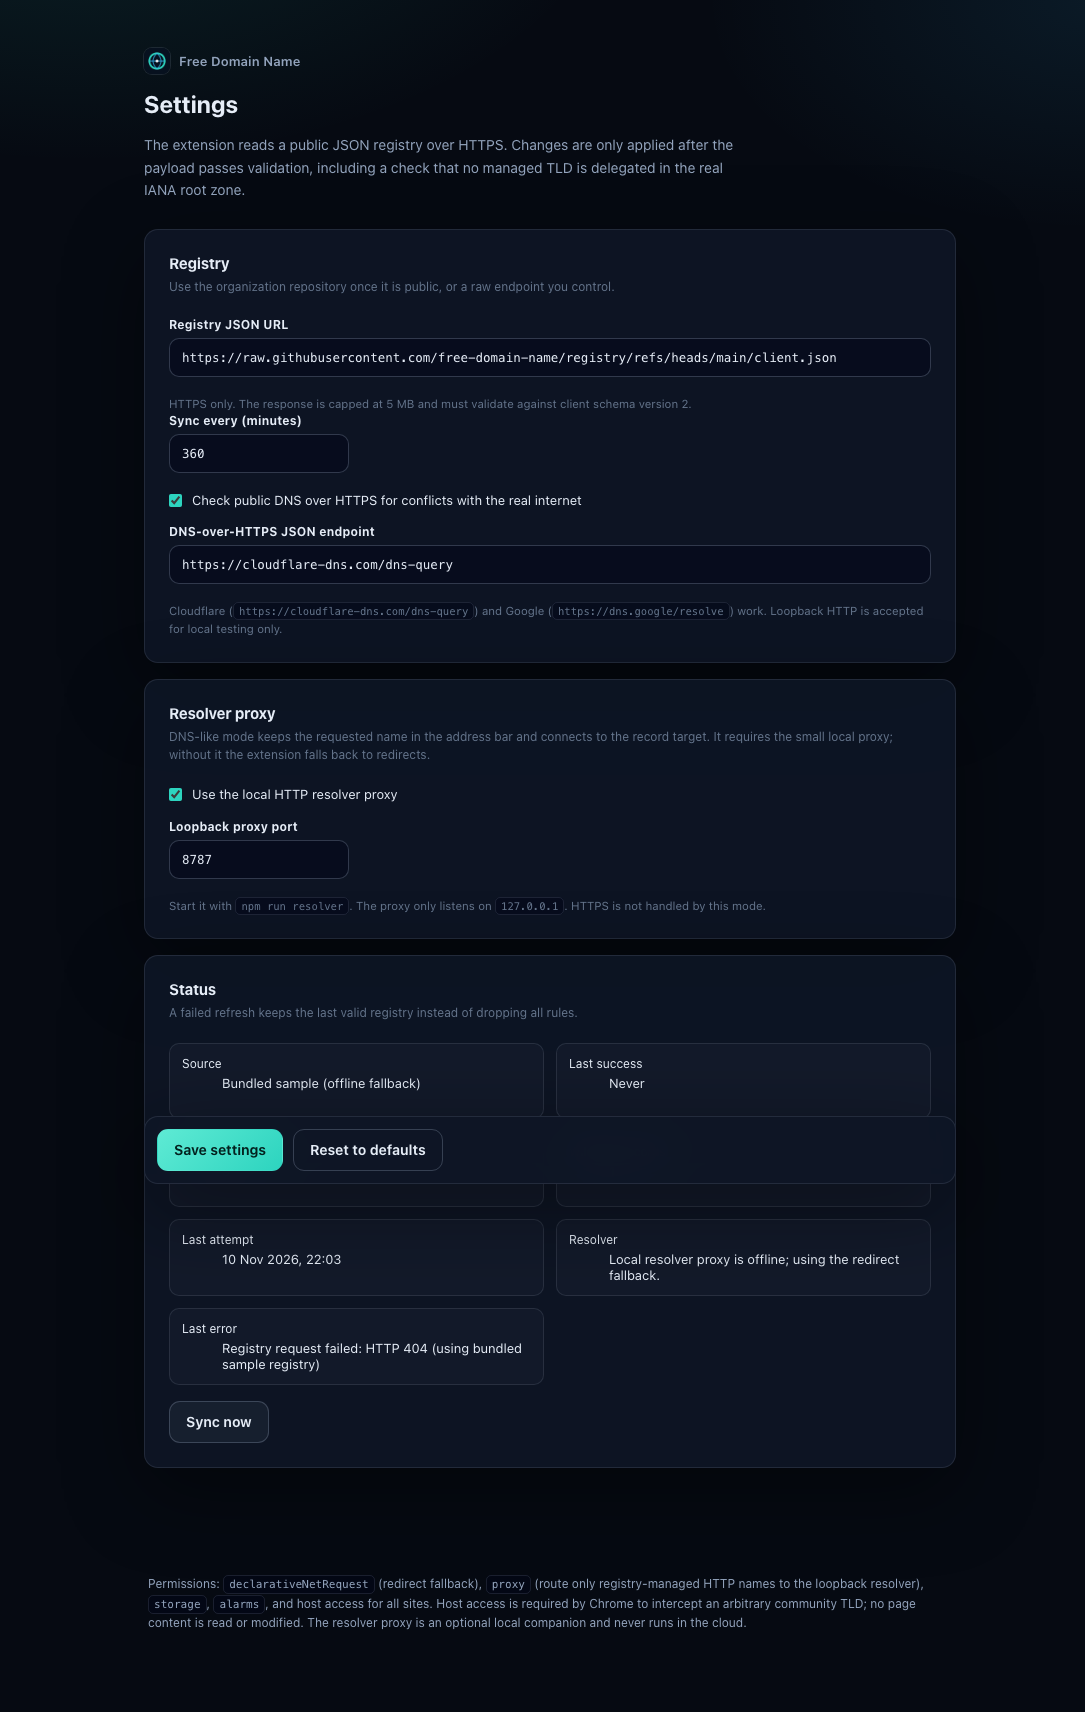
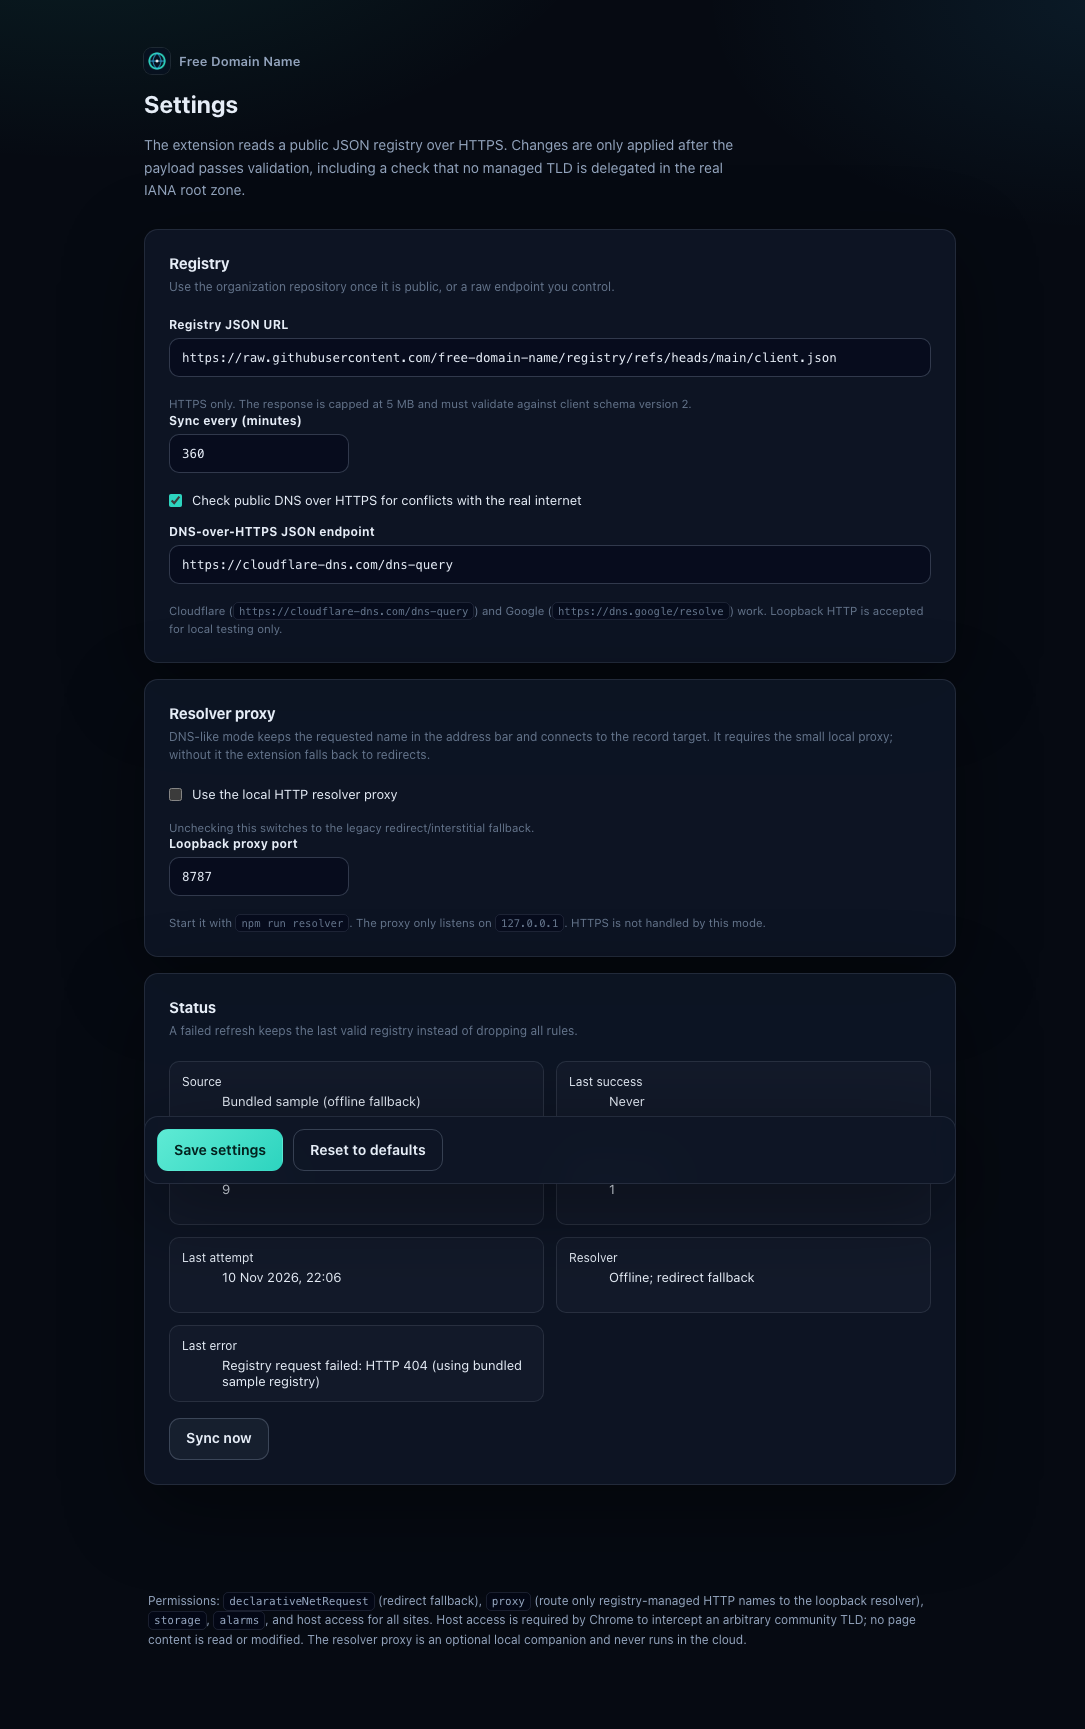
fix: make redirect mode opt-in
Defaults to the resolver; if the proxy is offline the extension clears rules and reports Resolver offline instead of silently redirecting. Sync now only caches; background selects the interception path.

diff --git a/src/popup.ts b/src/popup.ts
@@ -53,11 +53,17 @@ function render(response: StatusOk): void {
     el("status-detail").textContent = `${sourceLabel(registry)} · ${registry.recordCount} ${
       registry.recordCount === 1 ? "name" : "names"
     } · DNS-like proxy on 127.0.0.1:${response.resolver.port}`;
-  } else {
-    el("headline").textContent = registry.source === "sample" ? "Sample registry active" : "Interception active";
+  } else if (!settings.resolverEnabled) {
+    el("headline").textContent =
+      registry.source === "sample" ? "Sample registry active" : "Interception active";
     el("status-detail").textContent = `${sourceLabel(registry)} · ${registry.recordCount} ${
       registry.recordCount === 1 ? "name" : "names"
     } · redirect fallback`;
+  } else {
+    el("headline").textContent = "Resolver offline";
+    el("status-detail").textContent = `${sourceLabel(registry)} · ${registry.recordCount} ${
+      registry.recordCount === 1 ? "name" : "names"
+    } · no interception`;
   }
 
   el("record-count").textContent = registry ? String(registry.recordCount) : "0";

diff --git a/src/lib/registry.ts b/src/lib/registry.ts
@@ -1,7 +1,6 @@
 import sampleRegistryJson from "../../registry/client.json";
 import { api } from "./api";
 import { MAX_REGISTRY_BYTES } from "./constants";
-import { applyInterceptionRules } from "./rules";
 import { getSettings } from "./settings";
 import type {
   Registry,
@@ -149,7 +148,6 @@ async function performSync(): Promise<SyncStatus> {
   const attemptedAt = Date.now();
 
   if (!settings.enabled) {
-    await applyInterceptionRules([], false);
     const status: SyncStatus = {
       lastAttemptAt: attemptedAt,
       lastSuccessAt: previous.lastSuccessAt,
@@ -188,12 +186,6 @@ async function performSync(): Promise<SyncStatus> {
 
   const source: RegistrySource | null = next?.source ?? null;
   const success = next !== null && (source === "remote" || source === "sample");
-
-  try {
-    await applyInterceptionRules(next?.registry.records ?? [], settings.enabled);
-  } catch (ruleError) {
-    error = `${error ?? "Rule update failed"}: ${errorMessage(ruleError)}`;
-  }
 
   const status: SyncStatus = {
     lastAttemptAt: attemptedAt,

diff --git a/src/background.ts b/src/background.ts
@@ -62,8 +62,18 @@ async function applyInterception(settings: Settings): Promise<void> {
   }
   const cache = await readRegistryCache();
   const active = await configureResolver(settings, cache?.registry.records ?? []);
-  // The resolver proxy and the redirect rules are mutually exclusive.
-  await applyInterceptionRules(active ? [] : (cache?.registry.records ?? []), !active);
+  // The resolver proxy and the redirect rules are mutually exclusive. When the
+  // resolver is enabled but offline, do not silently become a redirector: clear
+  // the rules and let the popup report that the local proxy is unavailable.
+  if (active) {
+    await applyInterceptionRules([], false);
+    return;
+  }
+  if (!settings.resolverEnabled) {
+    await applyInterceptionRules(cache?.registry.records ?? [], true);
+    return;
+  }
+  await applyInterceptionRules([], false);
 }
 
 async function bootstrap(): Promise<void> {

diff --git a/public/options.html b/public/options.html
@@ -69,6 +69,9 @@
             <input id="resolver-enabled" type="checkbox" />
             <span>Use the local HTTP resolver proxy</span>
           </label>
+          <p class="hint">
+            Unchecking this switches to the legacy redirect/interstitial fallback.
+          </p>
 
           <label class="field">
             <span>Loopback proxy port</span>

diff --git a/README.md b/README.md
@@ -57,7 +57,9 @@ Load the **same `dist/` directory** in either browser:
 
 The extension checks `http://127.0.0.1:8787/__health` during sync and settings
 changes. When the proxy answers, it installs the PAC/`proxy.onRequest` route and
-clears the redirect rules. When it does not, it keeps the fallback.
+clears the redirect rules. When it does not, it reports `Resolver offline` and
+leaves registered names un-intercepted. Redirects are only used if you explicitly
+uncheck **Use the local HTTP resolver proxy**.
 
 Use **Settings → Sync now** after starting or stopping the proxy.
 
@@ -146,9 +148,9 @@ Copy [registry/](registry/) to the root of `free-domain-name/registry`, commit, 
 push. Registry CI runs the shard validator, client freshness check, and JSON Schema
 validation.
 
-## Fallback mode
+## Fallback mode (opt-in)
 
-If the local proxy is offline (or disabled in Settings), the extension uses the
+If you uncheck **Use the local HTTP resolver proxy**, the extension uses the
 original `declarativeNetRequest` path:
 
 - one redirect rule per record;
@@ -156,14 +158,15 @@ original `declarativeNetRequest` path:
 - a real-domain conflict offers registry vs public DNS;
 - the URL changes to the target.
 
-The popup reports `Redirect fallback`. This mode is intentionally retained so the
-extension still functions before the companion proxy is installed. It is not the
-DNS-like behavior; the local proxy is.
+The popup reports `Redirect fallback`. This mode is intentionally retained for
+compatibility, but it is not the default and it is not the DNS-like behavior.
 
 ## Boundaries
 
 - **A browser extension cannot do this alone.** It cannot listen on a socket or
   answer DNS. The resolver requires the loopback proxy in [resolver/](resolver/).
+  With resolver mode enabled and no proxy, registered names are left untouched and
+  the popup says `Resolver offline`; it does not silently redirect.
 - **HTTP only.** HTTPS requests do not enter the resolver. There is no custom-TLD
   TLS.
 - **The proxy is local.** It binds to `127.0.0.1` and sees the HTTP requests it

diff --git a/docs/architecture.md b/docs/architecture.md
@@ -53,8 +53,11 @@ at the target are rewritten to the original name.
 
 ## Request flow: fallback mode
 
-If `http://127.0.0.1:<port>/__health` does not answer, the extension clears its PAC
-(or leaves the Firefox listener direct) and installs DNR redirect rules:
+Redirect fallback is opt-in: uncheck the resolver proxy setting. If the resolver is
+enabled and `http://127.0.0.1:<port>/__health` does not answer, the extension clears
+its PAC (or leaves the Firefox listener direct), clears DNR rules, and reports
+`Resolver offline`. It does not silently redirect. With the resolver setting off, it
+installs DNR redirect rules:
 
 ```text
 http://google.com/
@@ -64,8 +67,8 @@ http://google.com/
   -> user choice -> normal navigation
 ```
 
-The popup says `Redirect fallback`; this is not the resolver behavior. It exists so
-the extension still works before the local companion is running.
+The popup says `Redirect fallback`; this is not the resolver behavior. It is retained
+as an explicit compatibility option, not the default.
 
 ## Proxy details
 
@@ -177,7 +180,8 @@ answer, matching DNS semantics.
 | --- | --- |
 | Registry 404/500/timeout | Keep last cache; sample only if no cache |
 | Invalid remote JSON | Keep last cache; status error |
-| Resolver health offline | Clear extension PAC, use DNR fallback |
+| Resolver health offline, resolver enabled | Clear extension PAC; no DNR rules; status offline |
+| Resolver setting off | Use DNR redirect fallback |
 | Proxy registry load failure | Keep last proxy records; health still reports error |
 | Proxy target failure | HTTP 502 |
 | HTTPS request | `DIRECT`; not proxied |
